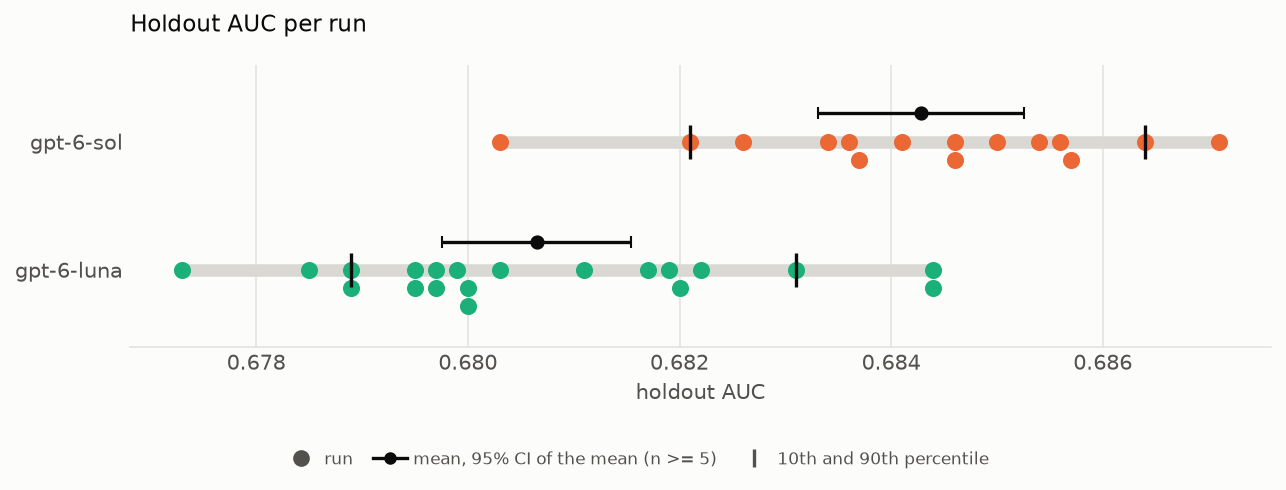
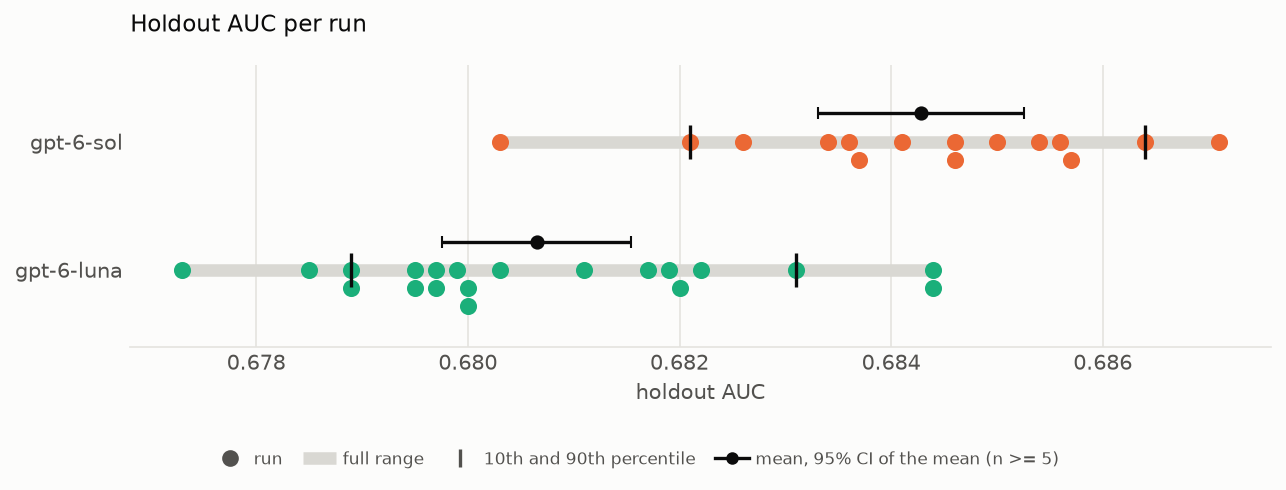
Beeswarm legend: range entry, runs before the mean
The legend now names the grey bar ("full range") and lists what describes
the runs first (run, full range, 10th and 90th percentile), then the mean
with its 95% CI.

Changed region(s): [[0.1555, 0.9184, 0.8398, 0.949]]

diff --git a/tools/plot_holdout_auc.py b/tools/plot_holdout_auc.py
@@ -223,8 +223,10 @@ def strip_plot(runs, colour):
         Line2D([], [], marker="o", ls="", color=INK2, markersize=7, label="run"),
         *([Line2D([], [], marker="o", ls="", markerfacecolor=SURFACE, markeredgecolor=INK2, markersize=7,
                   label=caveat)] if caveat else []),
-        Line2D([], [], marker="o", color=INK, markersize=5, lw=1.6, label=f"mean, 95% CI of the mean (n >= {MIN_N_STATS})"),
+        # what describes the runs first (range, percentiles), then the mean
+        Line2D([], [], color=RANGE, lw=6, solid_capstyle="butt", label="full range"),  # butt: stays clear of its label
         Line2D([], [], marker="|", ls="", color=INK2, markersize=9, markeredgewidth=1.6, label="10th and 90th percentile"),
+        Line2D([], [], marker="o", color=INK, markersize=5, lw=1.6, label=f"mean, 95% CI of the mean (n >= {MIN_N_STATS})"),
     ]
     fig.legend(handles=legend, loc="lower center", bbox_to_anchor=(0.5, -0.02),
                ncol=len(legend), frameon=False, fontsize=8, labelcolor=INK2, handletextpad=0.4, columnspacing=1.2)

diff --git a/README.md b/README.md
@@ -37,7 +37,7 @@ Four runs carry a caveat, all `keep_rule` (commits kept at an equal Eval AUC wit
 
 Plots over all groups go to `run-multi/SUMMARY/`:
 
-- `holdout_auc_beeswarm.png`: one dot per run, the mean with its 95% confidence interval and the 10th/90th percentiles per model;
+- `holdout_auc_beeswarm.png`: one dot per run, a grey bar over the full range, the 10th/90th percentiles and the mean with its 95% confidence interval per model;
 - `holdout_auc_pairwise.png`: head to head - the probability that one run of a model beats one run of another, with a 95% bootstrap interval;
 - `holdout_auc_path_panels.png`, `holdout_auc_path_median.png`: the holdout AUC of the kept model over the time of the run (minutes since its clock started) - per run in one panel per model, and all runs faded with the medians in bold.
 
